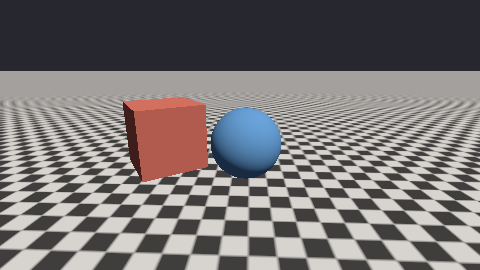
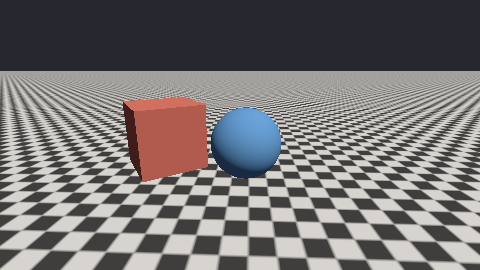
feat(M6.3): a texture at a slant — several places along a pixel's strip, in the reference and on the device
xrender.mesh Texture::over; mesh.slang the same. The floor of tiles re-pinned (0xb6962b046d17007d).

Checked: xrender.mesh 23 cases; on lavapipe xrender.rhi.sdl mesh_test 10 — the tiles within 6 levels of
the reference at all but 0.46% of pixels, within 16 at all but 8.

Changed region(s): [[0.5312, 0.2963, 1.0, 0.5037], [0.0, 0.2963, 0.4375, 0.5037], [0.4375, 0.3852, 0.5, 0.4444]]

diff --git a/modules/projects/xrender/mesh/src/mesh.cpp b/modules/projects/xrender/mesh/src/mesh.cpp
@@ -242,11 +242,7 @@ struct Raster {
                                     (corners[0]->uv.y * there[0] + corners[1]->uv.y * there[1] + corners[2]->uv.y * there[2]) * all};
                     };
                     const Vec2 here = uv_at(px, py), right = uv_at(px + 256.0, py), down = uv_at(px, py + 256.0);
-                    const float wide = static_cast<float>(texture->width), high = static_cast<float>(texture->height);
-                    const float across = std::sqrt((right.x - here.x) * (right.x - here.x) * wide * wide + (right.y - here.y) * (right.y - here.y) * high * high);
-                    const float along = std::sqrt((down.x - here.x) * (down.x - here.x) * wide * wide + (down.y - here.y) * (down.y - here.y) * high * high);
-                    const float footprint = std::max(across, along);
-                    material.base = math::scaled(base, texture->at(here, footprint == footprint ? footprint : 1.0f));
+                    material.base = math::scaled(base, texture->over(here, {right.x - here.x, right.y - here.y}, {down.x - here.x, down.y - here.y}));
                     ++stats.textured;
                 }
                 Vec3 colour = lit(normal, place);
@@ -701,6 +697,25 @@ Vec3 Texture::at(Vec2 uv, float footprint) const noexcept {
     };
     const Vec3 here = within(size);
     return toward_next > 0 ? math::mix(here, within(size + 1), toward_next) : here;
+}
+
+Vec3 Texture::over(Vec2 uv, Vec2 right, Vec2 down) const noexcept {
+    const float wide = static_cast<float>(width), high = static_cast<float>(height);
+    const float across = std::sqrt(right.x * right.x * wide * wide + right.y * right.y * high * high);
+    const float along = std::sqrt(down.x * down.x * wide * wide + down.y * down.y * high * high);
+    if (!(across == across) || !(along == along)) return at(uv, 1);
+    // The strip a pixel covers: its length the longer of the two ways, its width the shorter.
+    const Vec2 lengthwise = across >= along ? right : down;
+    const float longer = std::max(across, along), shorter = std::max(std::min(across, along), 1e-6f);
+    const float places = std::clamp(std::ceil(longer / shorter), 1.0f, 8.0f);
+    const float footprint = longer / places;
+    if (places <= 1) return at(uv, footprint);
+    Vec3 sum{0, 0, 0};
+    for (float place = 0; place < places; place += 1) {
+        const float aside = (place + 0.5f) / places - 0.5f;
+        sum = sum + at({uv.x + lengthwise.x * aside, uv.y + lengthwise.y * aside}, footprint);
+    }
+    return sum * (1.0f / places);
 }
 
 namespace {

diff --git a/modules/projects/xrender/rhi/sdl/tests/mesh_test.cpp b/modules/projects/xrender/rhi/sdl/tests/mesh_test.cpp
@@ -622,8 +622,11 @@ UTest cases{"mesh.gpu.sdl", [] {
         std::println("a floor of tiles: {} draw textured; {} of {} pixels further than 6 levels from the reference ({:.2f}%), {} further than 16; mean {:.3f}, worst {}", pass->last().textured, all.off,
                      all.compared, 100.0 * static_cast<double>(all.off) / static_cast<double>(all.compared), loosely.off, all.mean, all.worst);
         expect(eq(pass->last().textured, 1u));
-        expect(lt(static_cast<double>(all.off), 0.001 * static_cast<double>(all.compared)));
-        expect(le(loosely.off, all.off));
+        // How many places are taken along a pixel's strip turns on the screen's differences of the texture coordinate,
+        // which a device takes over two pixels by two and the reference from each pixel to the next: where the
+        // count steps, a few pixels step a pixel apart, a few levels off.
+        expect(lt(static_cast<double>(all.off), 0.01 * static_cast<double>(all.compared)));
+        expect(lt(static_cast<double>(loosely.off), 0.0005 * static_cast<double>(loosely.compared)));
         static_cast<void>(device->wait_idle());
         device->destroy(*colour), device->destroy(*depth);
     };

diff --git a/modules/projects/xrender/mesh/tests/mesh_test.cpp b/modules/projects/xrender/mesh/tests/mesh_test.cpp
@@ -803,6 +803,6 @@ static UTest cases{"xrender.mesh", [] {
         expect(lt(std::abs(far_mean / near_mean - 1), 0.25)) << "and as light on the whole as the near floor (the sun's angle is the same)";
         expect(eq(same_who, tiled.targets.ids.size())) << "a texture changes no depth";
         expect(gt(tiled.stats.textured, 60000u) && eq(plain.stats.textured, 0u));
-        expect(eq(bits(tiled.targets), std::uint64_t{0xf0f2e4cb0e0da635})) << std::format("{:016x}", bits(tiled.targets));
+        expect(eq(bits(tiled.targets), std::uint64_t{0xb6962b046d17007d})) << std::format("{:016x}", bits(tiled.targets));
     };
 }};

diff --git a/.agents/docs/STATUS.md b/.agents/docs/STATUS.md
@@ -117,9 +117,10 @@ Tasks, their dependencies and the milestone nodes: the plan's §9.5. Verified lo
 | M6.3, the pointer kept to a world (R5) | pointer lock as a capability of the host, relative movement | done locally: `omui::PointerEvent::movement`; `Services::lock_pointer(node)`/`unlock_pointer`/`pointer_locked_to` — asked of the host (`Runtime::set_pointer_lock`), which may say no; while kept every pointer event goes to the node and nothing else sees the pointer; Escape (not handed on), the window losing focus or the node going lets it go. Hosts: SDL3 (`SDL_SetWindowRelativeMouseMode`, `xrel`/`yrel`), headless (`move_by`, `pointer_held`). `xengine::ui::Viewport`: `look`, `hold_pointer`, `take_look`. Checked: `xengine.ui` 4 cases (a press holds; 12.5, −3 gathered from two movements; a click meant for a menu stays the world's; Escape and focus loss let go). Left: the Web host's (it says it cannot) |
 | M6.3, from a pixel of the interface on to the world (R3) | `ui.drew` through a viewport | done locally: a component may say what it shows at a point when that was drawn elsewhere (`shown_at`; `Runtime::shown_at`), and `ui.drew` adds it as `shows`. `Viewport` answers with the subject's name, the place in the picture and what the game's `describe` says there. Checked: `xengine.ui` 4 cases — the viewport's middle: `{"subject":"world","at":[0.5,0.5],"there":{"instance":2,"triangle":1696}}`, its corner no instance, a text node nothing |
 | M6.3, a shown picture in the window (the SDL3 host) | the CPU and the device path of `Services::add_picture` | done locally: the SDL3 host gives its CPU frame the pixels and its device frame a texture (the pixels sent when the picture's number changes, made again when its size does). Checked on lavapipe: `omui.host.sdl3` sdl3_test 12 pass, 1 skipped — a node's picture blue in the window by the CPU and on the GPU, white outside it, red once changed. The Web and Android hosts' CPU frames are given the pixels too (the Web host builds for wasm32 locally; Android's is for CI's row to build). Left: no copy for a world drawn on the same device; the Web host's device path; the dev host, whose application's list comes from another process |
-| M6.3, textures (the reference) | a picture over a surface, at every size | done locally: `mesh::Texture` (`made` from sRGB bytes: light at every size down to one texel; `at(uv, footprint)` between four texels and between two sizes, repeating), `Material::texture`, `Assets::textures`, `Stats::textured`; the footprint from the surface's place in the picture at a pixel, the next and the one below. Every earlier pin holds. `xrender.mesh` 23 cases: a texel's middle is the texel, four texels a pixel their mean, three halfway; a floor of tiles near 0.349 ± 0.272 a row, by the horizon 0.351 ± 0.000, no depth changed; pinned (`0xf0f2e4cb0e0da635`), `media/yard-tiles.png`. Left: a footprint each way (anisotropy); normal and roughness maps |
+| M6.3, textures (the reference) | a picture over a surface, at every size | done locally: `mesh::Texture` (`made` from sRGB bytes: light at every size down to one texel; `at(uv, footprint)` between four texels and between two sizes, repeating), `Material::texture`, `Assets::textures`, `Stats::textured`; the footprint from the surface's place in the picture at a pixel, the next and the one below. Every earlier pin holds. `xrender.mesh` 23 cases: a texel's middle is the texel, four texels a pixel their mean, three halfway; a floor of tiles near 0.349 ± 0.272 a row, by the horizon 0.351 ± 0.000, no depth changed; pinned (`0xf0f2e4cb0e0da635`), `media/yard-tiles.png`. Left: normal and roughness maps |
 | M6.3, textures on the device | the reference's lookup, term for term | done locally: `xrender.mesh.gpu` — corners carry texture coordinates; `load_textures` lays each picture's sizes on one `rgba16_float` sheet; `mesh.slang` reads four texels of a size and mixes two sizes by the pixel's footprint (`ddx`/`ddy`). On lavapipe at 480 × 270, the floor of tiles: 16 of 129,600 pixels further than 6 levels from the reference (mean 0.105). `xrender.rhi.sdl`'s `mesh_test` 10 cases on the device. Left: levels of a texture in `mlibs.rhi` (then the device filters) |
 | M6.3, modelling by code: a bevel | `extruded(outline, depth, bevel)` | done locally: the faces are the outline drawn in by the bevel (each corner along the line between its edges), the wall stops a bevel short of each face, a flat piece at 45° joins them; a bevel past half the depth, one the outline has no room for, or a corner too sharp is refused with its reason. `mlibs.geom` solid_test 8 cases: a square of 2, depth 1, bevel ¼ is sound, closed and holds the space worked out (a slab between two cut pyramids); an L either way round the same. Left of this line: booleans |
+| M6.3, a texture at a slant | several places along a pixel's strip (anisotropy), the reference and the device | done locally: `mesh::Texture::over(uv, right, down)` — up to eight places along the longer way of what a pixel covers, each at the size the shorter way asks; the same in `mesh.slang`. The floor of tiles is sharp far further out (pin `0xb6962b046d17007d`; by the horizon 0.351 ± 0.015). `xrender.mesh` 23 cases; on lavapipe the device is within 6 levels at all but 591 of 129,600 pixels (0.46%) and within 16 at all but 8 (`mesh_test` 10 cases) — the count of places steps a pixel apart on a device |
 | D-184 step a (M6.3) | the ray query as a capability of geometry: a tree of boxes | done locally: `mlibs.geom.api:bvh` — `bvh_of` (boxes, or a mesh's triangles; cut at the middle thing by centre and then number: the same things make the same tree bit for bit), `check`, `each_within`, `nearest` (of two as near, the lower number), a mesh's `meet`; a query allocates nothing; the form carries a version. `:walk` — a ray stepped through a lattice, flat or deep, each cell once and in order with where it was entered and through which face (`walk_test` 2: rows, slopes, from outside, a corner; 200 rays through 32 × 24 × 16 pass every cell a point of the ray is in, 3247 cells, bits pinned). Not done: a builder by surface area; the consumers (physics' broad phase and picking on the tree; the top step of 2D light on the walk). | `bvh_test` 4: 1000 boxes → 511 nodes, depth 9, bits pinned; 200 regions and 300 rays answer as asking every box does (1800 and 3051 boxes looked at, of 200000 and 300000); a ball of radius 2 met at its skin from outside and from within. `mlibs.geom` 23 |
 | T2.12 (bench onto mtest) | the benchmarks under mtest | mtest lacked one general thing, a per-call measurement: [mcpp-community/mtest#16](https://github.com/mcpp-community/mtest/pull/16) (`bench::each`, `bench::distribute`, `bench::lap`), its CI green (8 of 8), merged and released as v0.7.2, mirrored to GitCode (the same bytes); [mcpp-index#772](https://github.com/mcpplibs/mcpp-index/pull/772) merged with its checks green (24), the index published. **Step 7a done locally**: `tests/bench/tests/budgets_test.cpp` — each benchmark a case of kind `bench`, what it measured its metrics, its budgets the case's bounds (`unless` budgets judged in the case); it runs where `OMUI_BENCH=1` says a release build on a machine nothing else uses, and is skipped with the reason elsewhere. `tests/bench` alone takes mtest 0.7.2 (the workspace's pins move at the milestone: a bump rebuilds everything). CI's release rows run it beside the old step for one round. Next (7b): compare the two budget for budget, then delete the program's own check, report and `main`. | quick mode: 82 benchmarks ran and reported, 12 skipped with their reasons (no GPU here); judged in a dev build: bounds are judged (28 over, as a dev build is); without the switch: 94 skipped with the reason |
 | design: rays, tracing, CPU and GPU (D-184, §5.7) | where ray tracing belongs and how CPU and GPU divide | written: ray queries are `mlibs.geom`'s, tracing in bulk `mlibs.compute`'s, traced lighting xrender's — no engine of its own; the CPU path is the reference and the GPU the same kernel's other target; authoritative state goes to the GPU only where bit-identical; each feature that can be sped up has a named top step with what it adds. Also §6.13.1: why the suites' packages and the benchmarks are not all under mtest, the five things mtest's `Bench` lacks, and the order. Documents state facts only: mentions of who asked or decided are removed from all of them. | — |

diff --git a/modules/projects/xrender/mesh/gpu/README.md b/modules/projects/xrender/mesh/gpu/README.md
@@ -22,7 +22,7 @@ device.submit(list);                                             // colour: rgba
 | **The sun's shadows, by a map** | `Shadows`: two textures the caller made (`r32_float` and its depth, 2048² by default) and how far from the eye things are shadowed. The first sun's view of everything that casts — seen by the view or not — is drawn before the frame, over a ball about the near part of the view; a surface lifted two texels along its normal is in shadow where the map saw something nearer. Held to the reference's traced shadows: of 1,002 pixels the rays shadow the map shadows 985, and 71 of 129,600 pixels are further than 6 levels apart — a texel's width along the shadows' edges. ![the yard on a device under the sun alone: the box, the ball and the post each throw a shadow](media/yard-device-shadows.png) |
 | **Lamps' and spots' shadows, by maps** | `Shadows::lamps_map` and `lamps_depth` (an `r32_float` and its depth, 6 × `lamp_size` wide, a row a lamp): six views about each of the frame's first `lamps` lamps and spots — a spot's only where its cone looks — each texel how far the nearest thing is, as a share of the lamp's reach. The mesh shader finds the view a point lies in, lifts the point a texel and a half off its surface, and compares. The yard under a sun, a lamp and a spot (512² a view, 8 views drawn): 8,707 of the 8,732 pixels the reference's rays leave dark are dark, 8,742 in all; 114 of 129,600 pixels further than 6 levels (a line along the shadows' edges) |
 | **Frames gathered over time** | The reference's `Temporal` on a device. `Options::jitter` moves a frame's samples (in the light's, the who's and the velocity's passes alike); `record_who` writes which thing is at each pixel — the instance's own id, in an `r32_float` picture — and `record_velocity` how far each pixel's surface moved since the last frame (the pass remembers where everything was; what stood still says exactly 0); `Temporal::record` (`shaders/resolve.slang`) mixes the frame with the last result where the surface was, unless another thing was there, held to what the frame shows about the pixel; how many frames are gathered rides in the result's fourth part. The last result and the last who are the render graph's **histories** (`xrender.graph`): seven textures made once for any number of frames. On lavapipe, sixteen jittered frames of the yard: 11 of 129,600 pixels further than 6 levels from the reference's resolve; the box then moved a long way in one frame (3,539 pixels another thing's): 12 |
-| **Textures** | `load_textures(textures)`: each of the reference's `Texture`s as one sheet of light (`rgba16_float`) — its finest size at the corner, the others in a column beside it — and the mesh shader reads it as the reference does: between four texels of a size, between two sizes, by how many texels a pixel covers (the screen's own differences of the texture coordinate). The corners carry the mesh's texture coordinates. The interface has no levels of a texture yet, so nothing here is the device's own filtering: eight reads a pixel, the same on every backend. A floor of tiles to the horizon on lavapipe: 16 of 129,600 pixels further than 6 levels from the reference's |
+| **Textures** | `load_textures(textures)`: each of the reference's `Texture`s as one sheet of light (`rgba16_float`) — its finest size at the corner, the others in a column beside it — and the mesh shader reads it as the reference does: between four texels of a size, between two sizes, by how many texels a pixel covers (the screen's own differences of the texture coordinate). The corners carry the mesh's texture coordinates. The interface has no levels of a texture yet, so nothing here is the device's own filtering: eight reads a place, the same on every backend. At a slant the same places along the pixel's strip as the reference's `over`. A floor of tiles to the horizon on lavapipe: 591 of 129,600 pixels (0.46%) further than 6 levels from the reference's, 8 further than 16 — where the count of places steps, the device's differences (taken over two pixels by two) step a pixel away from the reference's |
 | **Glow** | `Pass::make(device, reversed, true)` draws onto an `rgba16_float` target and leaves the light as it is, before the display's curve; `Glow::record(list, light, one, other, colour, width, height, bloom)` is the reference's `Glow` in seven passes — what is above the threshold spread along the rows and down the columns three times between two pictures of the caller's, then the light and what spread through the curve onto `colour` (`shaders/glow.slang`; texels read one for one). The yard with a lamp of (9, 5, 1.6) on lavapipe: lighter by the glow over 6,943 pixels (the reference: 6,996), 5 of 129,600 further than 6 levels from the reference's; with no radius, the plain pass's picture. ![the yard with the lamp's halo](media/yard-device-glow.png) |
 | **A package of its own** | Not `xrender.mesh`'s feature: its build program compiles a shader, and a build program's imports are not conditional on a feature (D-99; as `mlibs.rhi.cts`) |
 

diff --git a/modules/projects/xrender/mesh/README.md b/modules/projects/xrender/mesh/README.md
@@ -31,7 +31,7 @@ const auto who = mesh::at(frame, 240, 135);     // instance 11, its cluster and 
 | **Frames gathered over time** | `Options::jitter` takes a frame's samples a little aside of each pixel's middle (`jitter_of(n)`: sixteen places that fill a pixel evenly); `Temporal::resolve` mixes each pixel with the last result where its surface was (the velocity) — unless neither there nor beside it was the same instance (the ids), when it begins again — and holds what it carries to what the frame shows about the pixel. Sixteen frames come to within a quarter of one frame's distance from sixteen samples a pixel; where a box was a frame ago nothing of it is left (3 pixels of 1,673). It is the reference of the method: the GPU's is held to it |
 | **Shadows, by rays** | Given a tree of each mesh (`Assets::trees`, `mlibs.geom`'s `bvh_of`), a light reaches a surface only where a ray from the surface to the light meets nothing — every instance of the scene that `casts`, seen by the view or not. It is the ray query of geometry used for light (D-184): exact to the triangle, no map and no bias but the lift off the surface. A ball's shadow on a floor is where the sun's rays through a ball land: 56,376 floor pixels agree and none disagree |
 | **Fog** | `Options::fog`: a colour, a density a unit of length at a height, and how fast it thins above it. What a ray goes through between the eye and a surface is worked out exactly (`through(fog, eye, toward, length)`: the integral, not steps; held to twenty thousand small steps within 1e-5), so fog that lies in a valley and clears above it is one formula; the background is a surface infinitely far — looked at upward through thinning fog it shows, level it does not. It is light and not geometry: ids, depth and velocity do not change, and the fogged light is what is gathered over time. No density: the pass does nothing for it, and the yard's pinned bits are the same. ![the yard in fog: the far floor gone into it, the sky clearing upward](media/yard-fog.png) |
-| **Textures** | `Material::texture` names one of `Assets::textures`; the surface's base colour is multiplied by the picture's light at the mesh's texture coordinates (`mlibs.geom`'s `uvs`; it repeats). A `Texture` is made once from sRGB bytes into light at every size down to one texel, each the mean of four; a pixel looks up the size whose texels are about a pixel across — from where the surface is in the picture at this pixel, the next and the one below, worked out through the perspective — and mixes it with the next size. A floor of tiles to the horizon: its light along a row near the eye 0.349 ± 0.272, by the horizon 0.351 ± 0.000 — the mean of its tiles and no shimmer. One footprint a pixel (the larger way): at a slant it is soft before it need be; a footprint each way is the next step. ![a floor of light and dark tiles, sharp near and even grey at the horizon](media/yard-tiles.png) |
+| **Textures** | `Material::texture` names one of `Assets::textures`; the surface's base colour is multiplied by the picture's light at the mesh's texture coordinates (`mlibs.geom`'s `uvs`; it repeats). A `Texture` is made once from sRGB bytes into light at every size down to one texel, each the mean of four; a pixel looks up the size whose texels are about a pixel across — from where the surface is in the picture at this pixel, the next and the one below, worked out through the perspective — and mixes it with the next size. At a slant a pixel covers a long strip of the picture: up to eight places along the strip are taken, each at the size the strip's width asks (`Texture::over`), so a floor stays sharp across the way it is looked along. A floor of tiles to the horizon: its light along a row near the eye 0.350 ± 0.271, by the horizon 0.351 ± 0.015 — the mean of its tiles, no shimmer. ![a floor of light and dark tiles, sharp near and even grey at the horizon](media/yard-tiles.png) |
 | **Glow** | `Glow::show(light, width, height, bloom, colour)`: the frame as shown — the light, what of it is brighter than the display can show spread to the pixels about it (`Bloom`: a threshold, a radius, a strength), then the display's curve. It works on the light before the curve (`Targets::light`, or `Temporal::light()`), where "brighter than white" still exists; a layer's 8-bit effect (`xrender.effect`) comes after it and cannot know. Three box passes each way, each value summed afresh: one pixel of (9, 5, 1) over a threshold of 1 spreads exactly its excess (8, 4.444, 0.889), evenly to 1.5e-8, and reaches three radii and no farther. With no radius, or nothing bright, the frame is the pass's own bytes |
 
 A harbour at night after rain — three lamps and a spot with their traced shadows (7,177 pixels in one), a wet quay that throws the lamps back, fog lying low, the globes' glow (1,109 pixels brighter than the display; 7,709 lighter for them) — 480 × 270, drawn with no window and no device, pinned bit for bit:
